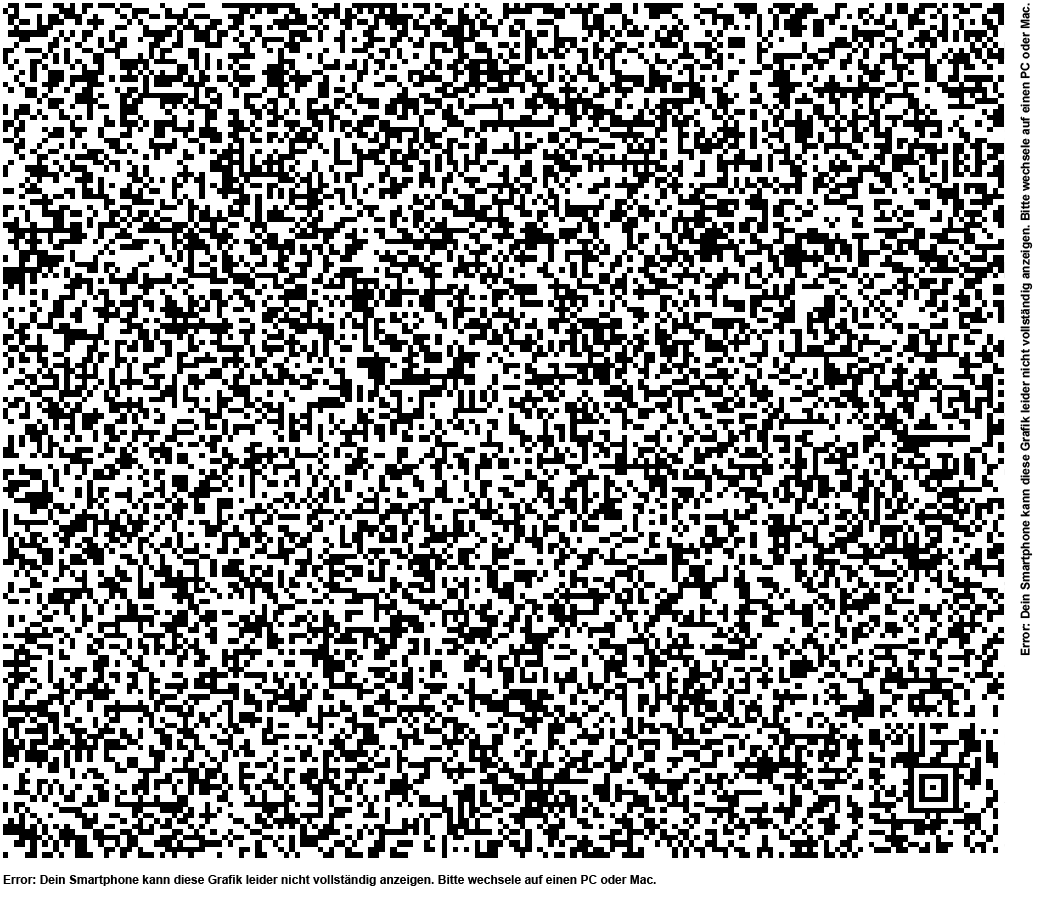
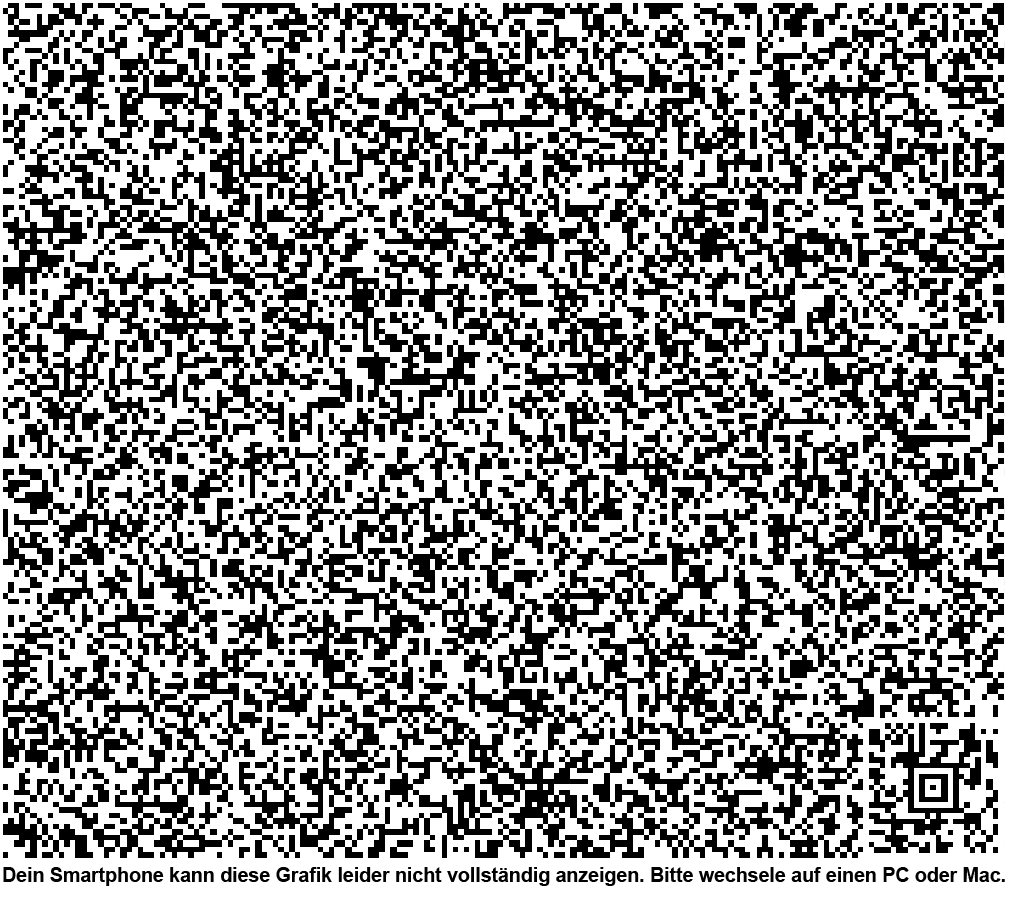
Signed-off-by: mrwellmann <mrwellmann@gmail.com>

diff --git a/public/stylesheets/dn.css b/public/stylesheets/dn.css
@@ -10,14 +10,14 @@ body {
   	font: 100% Arial, Helvetica, sans-serif;
   	text-align: left;
 	position:absolute;
-	min-width: 1040px;
+	min-width: 1010px;
  	min-height:900px;
 }
 
 #bg {
 	top: 0;
     left: 0;
-	min-width: 1040px;
+	min-width: 1010px;
  	min-height:900px;
     position:absolute;
 	margin:0 auto;
